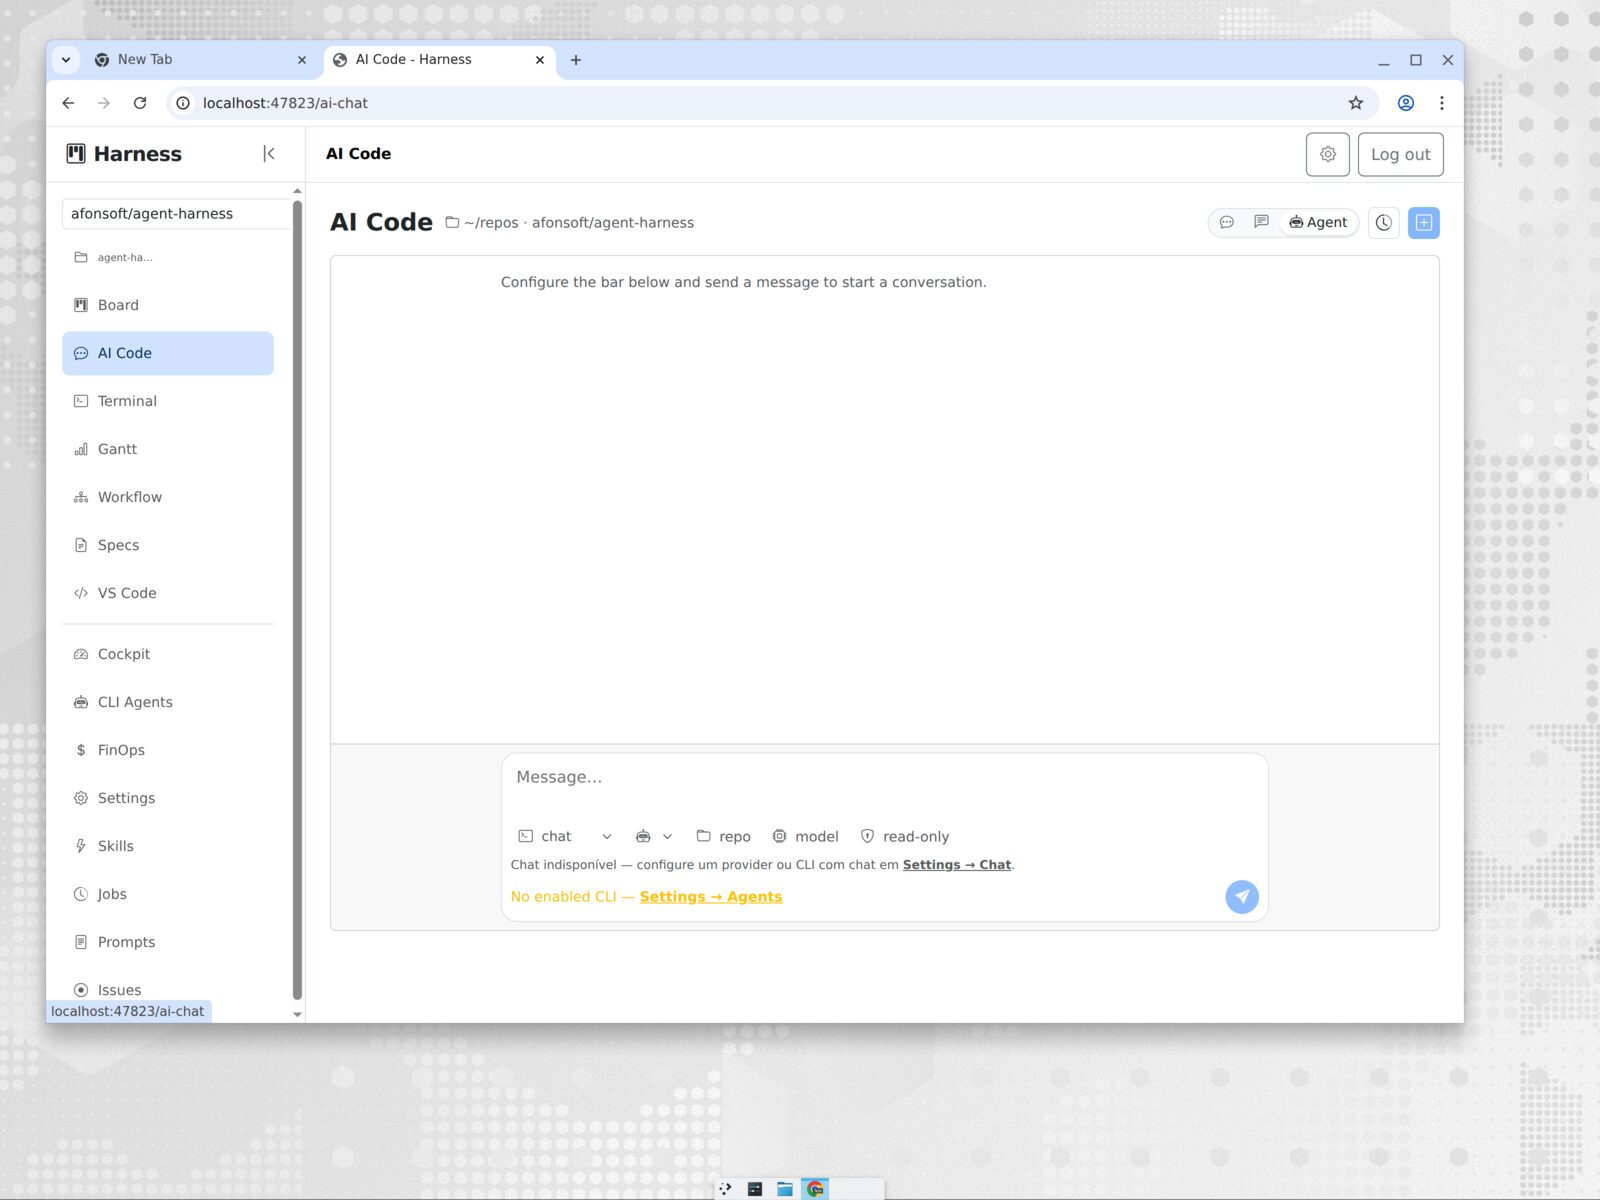
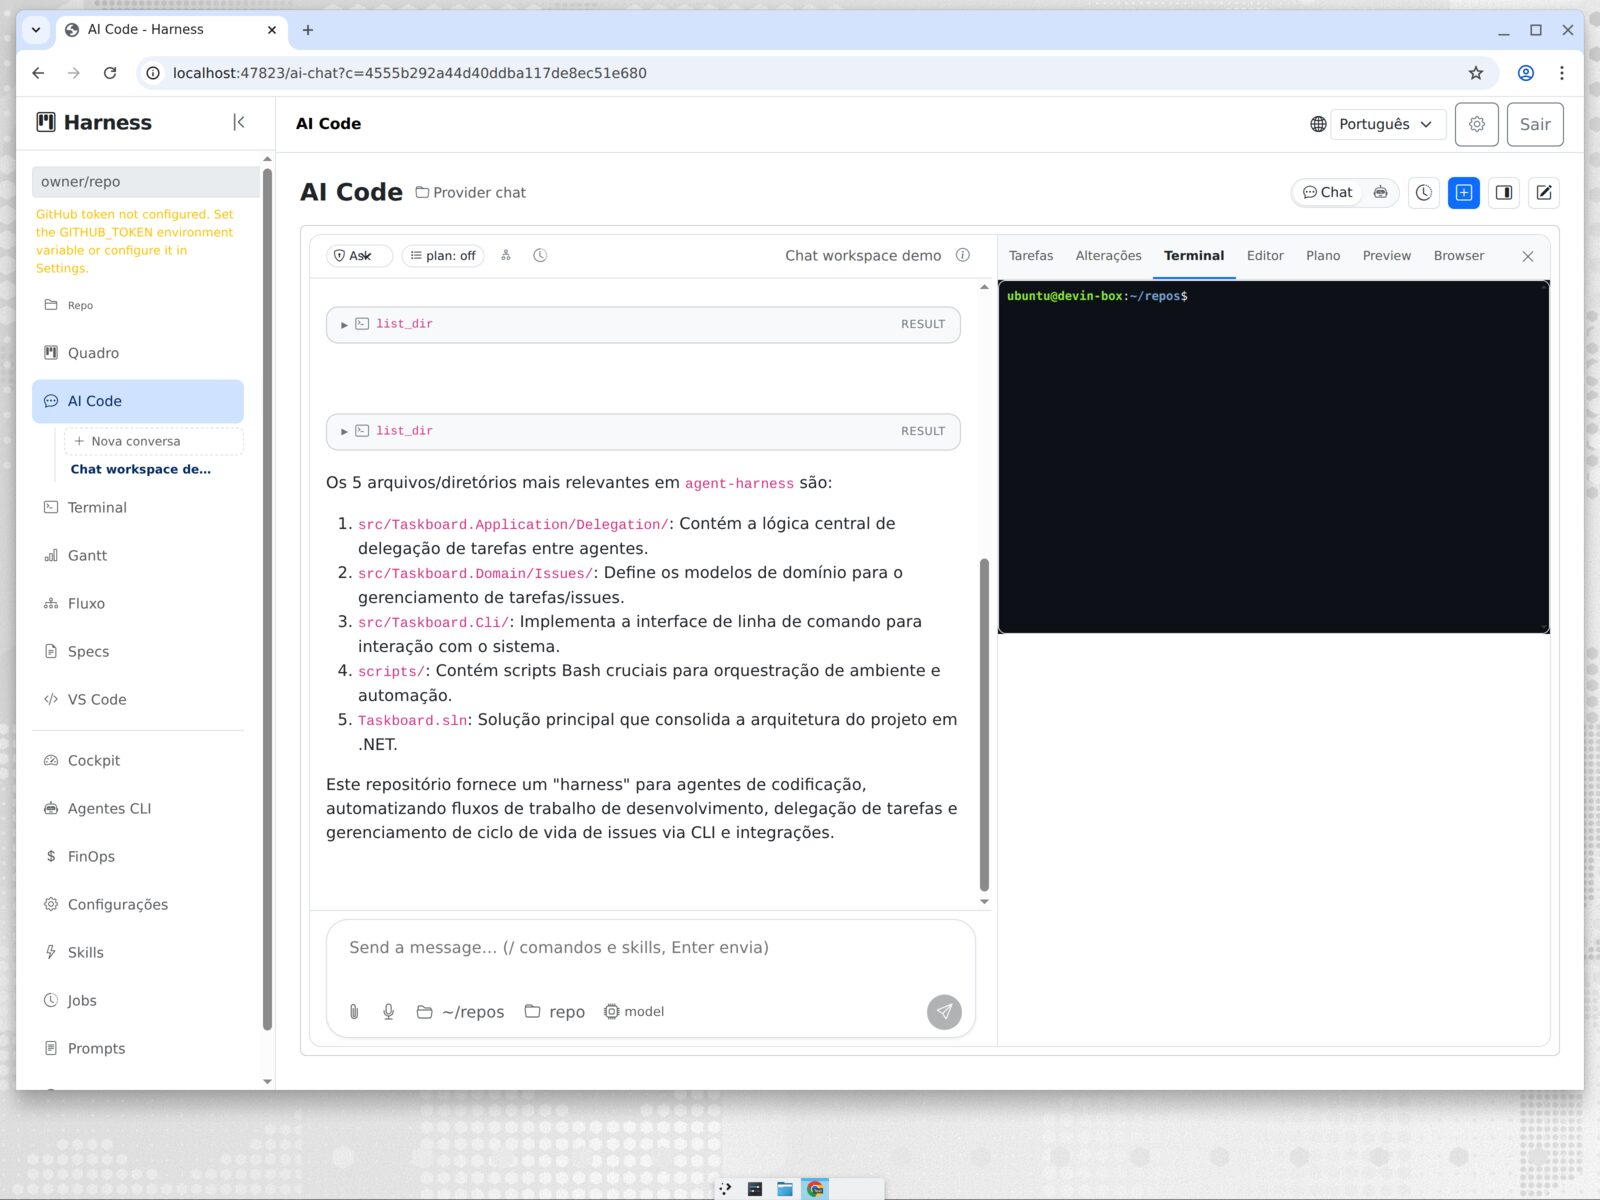
docs(readme): refresh AI Code screenshots — workspace panel, palette, preview, overview, mobile nav

Changed region(s): [[0.0, 0.0, 1.0, 0.925], [0.75, 0.74, 0.8125, 0.7708], [0.5625, 0.3392, 0.5938, 0.37]]

diff --git a/README.md b/README.md
@@ -25,6 +25,7 @@ Key capabilities:
 - **CLI session resume** — `/agents` scans on-disk transcripts (`~/.claude/projects`, `~/.codex/sessions`, opencode store) via `GET /api/agents/sessions` and offers one-click resume (`claude --resume`, `codex resume`, `opencode --session`) through the terminal.
 - **Worktree checkpoints** — `harness-checkpoint:` prefixed commits snapshot and restore worktree state mid-run (`worktree_checkpoint`/`worktree_checkpoints` tools).
 - **Workspace picker** — Agent chat runs tools against a chosen folder (default `~/repos`, any subfolder selectable); per-conversation, sandboxed to `$HOME`.
+- **Devin-style chat workspace** — the AI Code chat docks a live workspace panel beside the transcript (Tasks / Changes / Terminal PTY / Editor / Plan / Preview / Browser tabs, drag-resizable, persisted per conversation), plus a ⌘K command palette, run pause/resume/stop controls, risk-tiered auto-approvals, git bar with PR links, preview tab with element-picker → composer quote, `browser_use` tool with a shot gallery, post-run next-action suggestion chips, and voice dictation.
 - **Verification loop** — opt-in deterministic build/test/coverage gate after each agent run (`dotnet format → build → test` with TRX + coverage parsing); failures feed a retry loop with a structured `feedbackPrompt` and escalate to human after max attempts.
 - **Security gateway** — pre-dispatch command classification (Safe/WorkspaceWrite/Dangerous, fail-closed), path-jail + symlink-escape enforcement, and secret scrubbing on logged output.
 - **Context & memory** — hierarchical context compilation (`AGENTS.md`/`CLAUDE.md`/`.cursorrules`, env + git block, token-budgeted compaction) and project memory items scoped by remote origin.
@@ -42,7 +43,7 @@ Key capabilities:
 
 | Board | AI Code |
 |---|---|
-| ![GitHub issues as a drag-and-drop Kanban board](docs/screenshots/board.jpg) | ![Devin-style chat with mode toggle, icon toolbar and workspace context](docs/screenshots/ai-code.jpg) |
+| ![GitHub issues as a drag-and-drop Kanban board](docs/screenshots/board.jpg) | ![Devin-style chat with tool cards and the workspace panel (Tarefas/Alterações/Terminal/Editor/Plano/Preview/Browser)](docs/screenshots/ai-code.jpg) |
 | **Living Specs** | **Jobs** |
 | ![SDD specs catalog with status tracking and drift warnings](docs/screenshots/specs.jpg) | ![Managed background jobs with intervals, toggles and run history](docs/screenshots/jobs.jpg) |
 | **FinOps** | **CLI Agents** |
@@ -51,6 +52,10 @@ Key capabilities:
 | ![Interactive bash PTY tabs over SignalR](docs/screenshots/terminal.jpg) | ![Feature switches and configuration overrides](docs/screenshots/settings.jpg) |
 | **Agent Dashboard** | **Workspace picker** |
 | ![Needs You / Working / Done / Idle columns plus resumable CLI sessions](docs/screenshots/agents-dashboard.jpg) | ![Workspace picker modal listing subfolders of ~/repos](docs/screenshots/workspace-picker.jpg) |
+| **Chat command palette** | **Chat app preview** |
+| ![⌘K palette with session and workspace commands](docs/screenshots/ai-code-palette.jpg) | ![Preview tab proxying a live host app inside the chat](docs/screenshots/ai-code-preview.jpg) |
+| **Chat overview** | **Mobile navigation** |
+| ![Conversation overview popover with model, workspace and message count](docs/screenshots/ai-code-overview.jpg) | ![Mobile nav sliding over the content, closing on outside tap](docs/screenshots/mobile-nav.jpg) |
 
 ## Tech Stack
 
